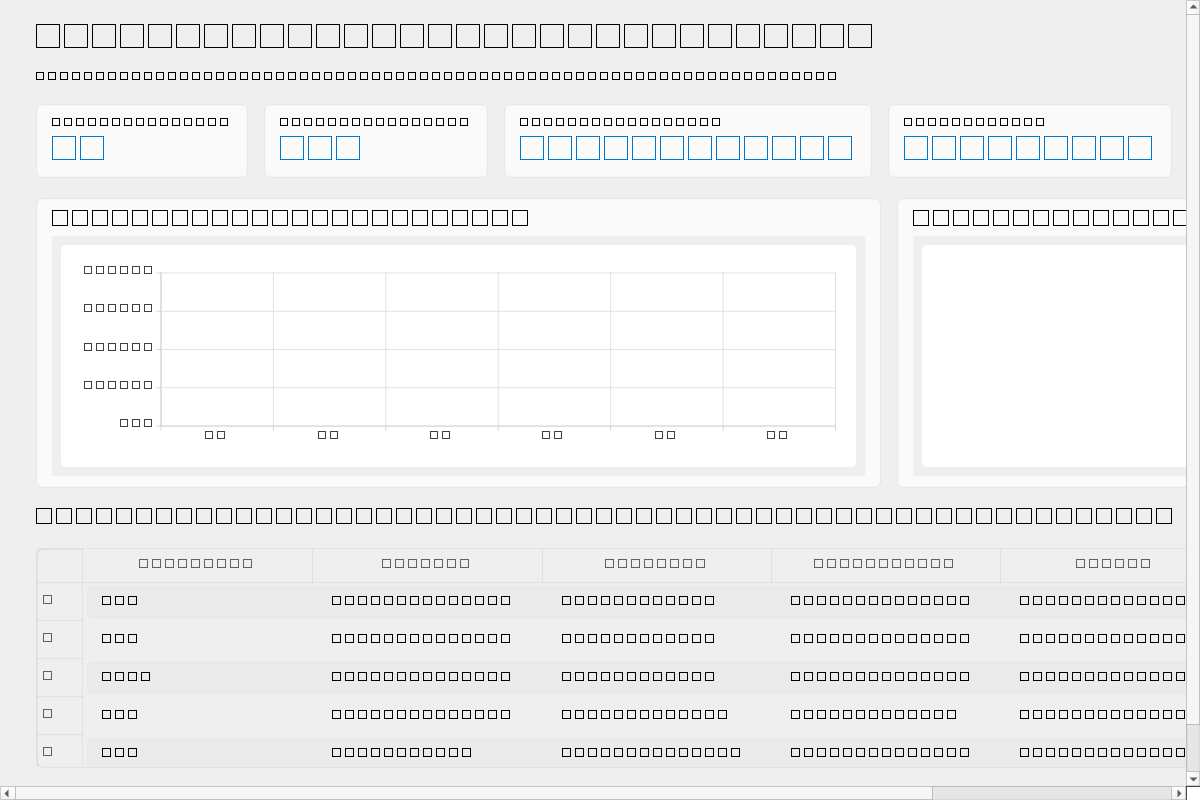
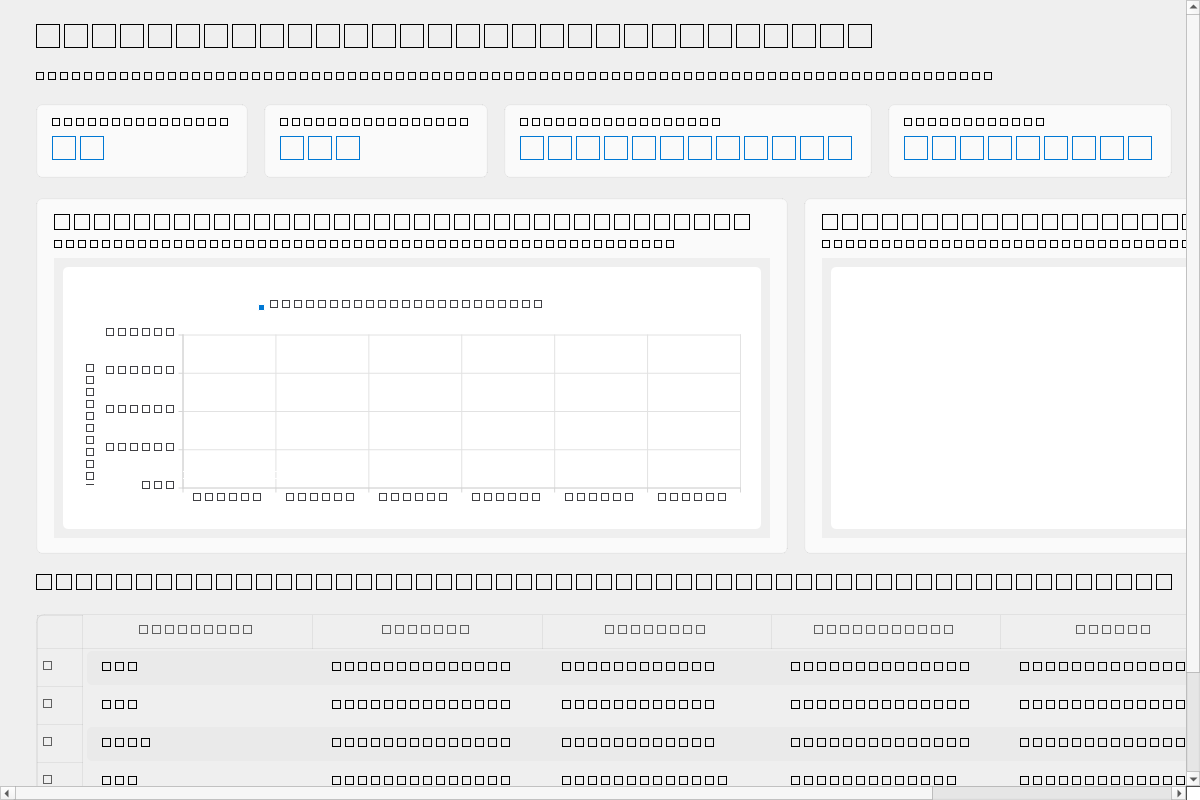
feat(ux): aprimora graficos com legendas e interatividade, valida CPF/email/tel e adiciona selecao de status em 3 opcoes

diff --git a/src/nova_dps/ui/paginas/dashboard_page.py b/src/nova_dps/ui/paginas/dashboard_page.py
@@ -1,10 +1,10 @@
 from PySide6.QtWidgets import QWidget, QVBoxLayout, QHBoxLayout, QLabel, QHeaderView, QScrollArea
-from PySide6.QtGui import QPainter
+from PySide6.QtGui import QPainter, QFont, QColor
 from PySide6.QtCore import Qt
-from PySide6.QtCharts import QChart, QChartView, QBarSeries, QBarSet, QBarCategoryAxis, QValueAxis, QPieSeries
+from PySide6.QtCharts import QChart, QChartView, QBarSeries, QBarSet, QBarCategoryAxis, QValueAxis, QPieSeries, QPieSlice
 from qfluentwidgets import (
     CardWidget, TableWidget, PrimaryPushButton, PushButton,
-    FluentIcon as FIF, TitleLabel, SubtitleLabel, CaptionLabel
+    FluentIcon as FIF, TitleLabel, SubtitleLabel, CaptionLabel, InfoBar, InfoBarPosition
 )
 from src.nova_dps.services.dashboard_service import DashboardService
 
@@ -26,7 +26,7 @@ class DashboardPage(QScrollArea):
 
         # Cabeçalho
         title = TitleLabel("Painel Executivo & Indicadores", self.container)
-        subtitle = CaptionLabel("Visão operacional e financeira em tempo real da assistência técnica", self.container)
+        subtitle = CaptionLabel("Visão operacional e financeira em tempo real com métricas e gráficos interativos", self.container)
         layout.addWidget(title)
         layout.addWidget(subtitle)
 
@@ -35,31 +35,37 @@ class DashboardPage(QScrollArea):
         self.kpis_layout.setSpacing(16)
         layout.addLayout(self.kpis_layout)
 
-        # Linha de Gráficos Nativos
+        # Linha de Gráficos Nativos e Interativos
         self.graficos_layout = QHBoxLayout()
         self.graficos_layout.setSpacing(16)
 
         # Card Gráfico de Colunas (Faturamento Mensal)
         self.card_barras = CardWidget(self.container)
         barras_vbox = QVBoxLayout(self.card_barras)
-        barras_vbox.setContentsMargins(16, 12, 16, 12)
-        lbl_barras = SubtitleLabel("Faturamento por Mês (R$)", self.card_barras)
+        barras_vbox.setContentsMargins(18, 16, 18, 16)
+        lbl_barras = SubtitleLabel("Faturamento Mensal Consolidado (R$)", self.card_barras)
+        self.lbl_barras_info = CaptionLabel("Passe o mouse ou clique nas barras para ver detalhes", self.card_barras)
         barras_vbox.addWidget(lbl_barras)
+        barras_vbox.addWidget(self.lbl_barras_info)
+        
         self.chart_view_barras = QChartView(self.card_barras)
         self.chart_view_barras.setRenderHint(QPainter.Antialiasing)
-        self.chart_view_barras.setMinimumHeight(240)
+        self.chart_view_barras.setMinimumHeight(280)
         barras_vbox.addWidget(self.chart_view_barras)
         self.graficos_layout.addWidget(self.card_barras, 3)
 
         # Card Gráfico de Rosca (Distribuição de Reparos)
         self.card_rosca = CardWidget(self.container)
         rosca_vbox = QVBoxLayout(self.card_rosca)
-        rosca_vbox.setContentsMargins(16, 12, 16, 12)
-        lbl_rosca = SubtitleLabel("Top Reparos Técnicos", self.card_rosca)
+        rosca_vbox.setContentsMargins(18, 16, 18, 16)
+        lbl_rosca = SubtitleLabel("Top Reparos Técnicos Executados", self.card_rosca)
+        self.lbl_rosca_info = CaptionLabel("Clique em uma fatia para destacar a categoria", self.card_rosca)
         rosca_vbox.addWidget(lbl_rosca)
+        rosca_vbox.addWidget(self.lbl_rosca_info)
+        
         self.chart_view_rosca = QChartView(self.card_rosca)
         self.chart_view_rosca.setRenderHint(QPainter.Antialiasing)
-        self.chart_view_rosca.setMinimumHeight(240)
+        self.chart_view_rosca.setMinimumHeight(280)
         rosca_vbox.addWidget(self.chart_view_rosca)
         self.graficos_layout.addWidget(self.card_rosca, 2)
 
@@ -98,7 +104,6 @@ class DashboardPage(QScrollArea):
 
     def exportar_pdf(self):
         from src.nova_dps.services.relatorio_service import RelatorioPdfService
-        from qfluentwidgets import InfoBar, InfoBarPosition
         import os
         caminho = RelatorioPdfService.gerar_relatorio_gerencial()
         InfoBar.success(
@@ -139,19 +144,21 @@ class DashboardPage(QScrollArea):
             c_layout.addWidget(lbl_valor)
             self.kpis_layout.addWidget(card)
 
-        # Montar Gráfico de Colunas (Faturamento)
+        # Montar Gráfico de Colunas Interativo e com Rótulos
         dados_meses = DashboardService.faturamento_por_mes()
         chart_barras = QChart()
         chart_barras.setAnimationOptions(QChart.SeriesAnimations)
-        chart_barras.legend().setVisible(False)
+        chart_barras.legend().setVisible(True)
+        chart_barras.legend().setAlignment(Qt.AlignTop)
 
-        bar_set = QBarSet("Faturamento")
-        bar_set.setColor("#0078D4")
+        bar_set = QBarSet("Faturamento Mensal (R$)")
+        bar_set.setColor(QColor("#0078D4"))
+        
         categorias = []
         max_val = 1000.0
 
         for mes, total in dados_meses:
-            categorias.append(str(mes)[5:]) # MM
+            categorias.append(f"Mês {str(mes)[5:]}") # Ex: Mês 05
             val = float(total or 0)
             bar_set.append(val)
             if val > max_val:
@@ -159,21 +166,33 @@ class DashboardPage(QScrollArea):
 
         series_bar = QBarSeries()
         series_bar.append(bar_set)
+        series_bar.setLabelsVisible(True) # EXIBE O VALOR EM CIMA DA BARRA!
+        series_bar.setLabelsPosition(QBarSeries.LabelsOutsideEnd)
+
+        # Interatividade ao passar o mouse ou clicar
+        def on_bar_hovered(status, index):
+            if status and 0 <= index < len(categorias):
+                valor = bar_set.at(index)
+                self.lbl_barras_info.setText(f"Selecionado: {categorias[index]} ➔ R$ {valor:,.2f}".replace(",", "X").replace(".", ",").replace("X", "."))
+
+        bar_set.hovered.connect(on_bar_hovered)
+
         chart_barras.addSeries(series_bar)
 
         axis_x = QBarCategoryAxis()
-        axis_x.append(categorias if categorias else ["Meses"])
+        axis_x.append(categorias if categorias else ["Mês"])
         chart_barras.addAxis(axis_x, Qt.AlignBottom)
         series_bar.attachAxis(axis_x)
 
         axis_y = QValueAxis()
-        axis_y.setRange(0, max_val * 1.15)
+        axis_y.setTitleText("Total em Reais (R$)")
+        axis_y.setRange(0, max_val * 1.25)
         chart_barras.addAxis(axis_y, Qt.AlignLeft)
         series_bar.attachAxis(axis_y)
 
         self.chart_view_barras.setChart(chart_barras)
 
-        # Montar Gráfico de Rosca (Reparos)
+        # Montar Gráfico de Rosca Interativo com Legendas Claras
         dados_reparos = DashboardService.distribuicao_tipos_reparo()
         chart_rosca = QChart()
         chart_rosca.setAnimationOptions(QChart.SeriesAnimations)
@@ -181,10 +200,26 @@ class DashboardPage(QScrollArea):
         chart_rosca.legend().setAlignment(Qt.AlignRight)
 
         pie_series = QPieSeries()
-        pie_series.setHoleSize(0.38)
+        pie_series.setHoleSize(0.40) # Rosca moderna
 
-        for reparo, qtd in dados_reparos:
-            pie_series.append(str(reparo)[:18], int(qtd))
+        cores_paleta = ["#0078D4", "#2E7D32", "#D83B01", "#8764B8", "#00B7C3"]
+        total_reparos = sum(int(qtd) for _, qtd in dados_reparos) or 1
+
+        for idx, (reparo, qtd) in enumerate(dados_reparos):
+            pct = (int(qtd) / total_reparos) * 100
+            nome_resumido = str(reparo)[:22]
+            fatia = pie_series.append(f"{nome_resumido} ({pct:.0f}%)", int(qtd))
+            fatia.setColor(QColor(cores_paleta[idx % len(cores_paleta)]))
+            fatia.setLabelVisible(False) # Mantém limpo na rosca e detalhado na legenda
+
+            # Interatividade de Destaque / Explode ao clicar
+            def make_click_handler(slice_ref, nome, q, p):
+                def handler():
+                    slice_ref.setExploded(not slice_ref.isExploded())
+                    self.lbl_rosca_info.setText(f"Destaque: {nome} ➔ {q} chamados ({p:.1f}%)")
+                return handler
+
+            fatia.clicked.connect(make_click_handler(fatia, str(reparo), int(qtd), pct))
 
         chart_rosca.addSeries(pie_series)
         self.chart_view_rosca.setChart(chart_rosca)

diff --git a/src/nova_dps/ui/paginas/clientes_page.py b/src/nova_dps/ui/paginas/clientes_page.py
@@ -68,6 +68,9 @@ class ClientesPage(QWidget):
         self.carregar_clientes()
 
     def salvar_cliente(self):
+        from src.nova_dps.services.validadores import validar_cpf, validar_telefone, validar_email
+        from qfluentwidgets import InfoBar, InfoBarPosition
+
         nome = self.txt_nome.text().strip()
         cpf = self.txt_cpf.text().strip()
         tel = self.txt_tel.text().strip()
@@ -76,8 +79,52 @@ class ClientesPage(QWidget):
         bairro = self.txt_bairro.text().strip()
         cidade = self.txt_cidade.text().strip() or "São Paulo"
         
-        if nome and tel:
-            CrudService.salvar_cliente(nome, cpf, tel, email, endereco, bairro)
+        # 1. Validação de Nome Obrigatório
+        if not nome or len(nome) < 3:
+            InfoBar.warning(
+                title="Nome Inválido",
+                content="Por favor, informe o nome completo do cliente (mínimo 3 caracteres).",
+                orient=InfoBarPosition.TOP,
+                duration=3500,
+                parent=self
+            )
+            return
+
+        # 2. Validação de Telefone Obrigatório
+        if not tel or not validar_telefone(tel):
+            InfoBar.warning(
+                title="Telefone Inválido",
+                content="Informe um telefone com DDD válido (ex: 11987654321 ou (11) 98765-4321).",
+                orient=InfoBarPosition.TOP,
+                duration=3500,
+                parent=self
+            )
+            return
+
+        # 3. Validação de CPF
+        if cpf and not validar_cpf(cpf):
+            InfoBar.warning(
+                title="CPF Inválido",
+                content="O CPF digitado não possui os dígitos verificadores válidos segundo a Receita Federal.",
+                orient=InfoBarPosition.TOP,
+                duration=3500,
+                parent=self
+            )
+            return
+
+        # 4. Validação de E-mail
+        if email and not validar_email(email):
+            InfoBar.warning(
+                title="E-mail Inválido",
+                content="O formato do e-mail é inválido (exemplo correto: cliente@email.com).",
+                orient=InfoBarPosition.TOP,
+                duration=3500,
+                parent=self
+            )
+            return
+
+        try:
+            CrudService.salvar_cliente(nome, cpf, tel, email, endereco, bairro, cidade)
             self.txt_nome.clear()
             self.txt_cpf.clear()
             self.txt_tel.clear()
@@ -86,6 +133,21 @@ class ClientesPage(QWidget):
             self.txt_bairro.clear()
             self.txt_cidade.clear()
             self.carregar_clientes()
+            InfoBar.success(
+                title="Cliente Cadastrado com Sucesso!",
+                content=f"{nome} foi cadastrado com dados e localização validados.",
+                orient=InfoBarPosition.TOP,
+                duration=3000,
+                parent=self
+            )
+        except Exception as e:
+            InfoBar.error(
+                title="Erro ao Cadastrar Cliente",
+                content=str(e),
+                orient=InfoBarPosition.TOP,
+                duration=4000,
+                parent=self
+            )
 
     def carregar_clientes(self):
         clientes = CrudService.listar_clientes()

diff --git a/src/nova_dps/ui/paginas/servicos_page.py b/src/nova_dps/ui/paginas/servicos_page.py
@@ -1,5 +1,5 @@
 from PySide6.QtWidgets import QWidget, QVBoxLayout, QHeaderView, QTableWidgetItem
-from qfluentwidgets import TableWidget, TitleLabel, CaptionLabel
+from qfluentwidgets import TableWidget, TitleLabel, CaptionLabel, ComboBox, InfoBar, InfoBarPosition
 from src.nova_dps.services.crud_service import CrudService
 
 class ServicosPage(QWidget):
@@ -38,4 +38,30 @@ class ServicosPage(QWidget):
             self.tabela.setItem(row_idx, 3, QTableWidgetItem(str(s['tecnico_responsavel'])))
             self.tabela.setItem(row_idx, 4, QTableWidgetItem(str(s['tipo_reparo'])))
             self.tabela.setItem(row_idx, 5, QTableWidgetItem(f"R$ {float(s['valor_mao_de_obra']):,.2f}"))
-            self.tabela.setItem(row_idx, 6, QTableWidgetItem(str(s['status_servico'])))
+            
+            # ComboBox Interativo com 3 opções
+            cb_status = ComboBox(self)
+            cb_status.addItems(["Pendente", "Em Andamento", "Finalizado"])
+            
+            st_banco = str(s['status_servico'])
+            if st_banco in ["Finalizado", "Concluído"]:
+                cb_status.setCurrentText("Finalizado")
+            elif st_banco in ["Em Andamento"]:
+                cb_status.setCurrentText("Em Andamento")
+            else:
+                cb_status.setCurrentText("Pendente")
+
+            cb_status.currentTextChanged.connect(
+                lambda novo_st, id_s=s['id_servico']: self.on_status_changed(id_s, novo_st)
+            )
+            self.tabela.setCellWidget(row_idx, 6, cb_status)
+
+    def on_status_changed(self, id_servico, novo_status):
+        CrudService.atualizar_status_servico(id_servico, novo_status)
+        InfoBar.success(
+            title="Status de Serviço Atualizado",
+            content=f"Serviço #{id_servico} alterado para: {novo_status}",
+            orient=InfoBarPosition.TOP,
+            duration=2000,
+            parent=self
+        )

diff --git a/src/nova_dps/ui/paginas/pedidos_page.py b/src/nova_dps/ui/paginas/pedidos_page.py
@@ -96,5 +96,34 @@ class PedidosPage(QWidget):
             self.tabela.setItem(row_idx, 1, QTableWidgetItem(str(p['cliente'])))
             self.tabela.setItem(row_idx, 2, QTableWidgetItem(str(p['tipo_equipamento'])))
             self.tabela.setItem(row_idx, 3, QTableWidgetItem(str(p['modelo_equipamento'])))
-            self.tabela.setItem(row_idx, 4, QTableWidgetItem(str(p['status_pedido'])))
+            
+            # ComboBox Interativo com as 3 opções solicitadas
+            cb_status = ComboBox(self)
+            cb_status.addItems(["Pendente", "Em Andamento", "Finalizado"])
+            
+            status_banco = str(p['status_pedido'])
+            # Normalizar status para as 3 opções
+            if status_banco in ["Concluído", "Entregue", "Finalizado"]:
+                cb_status.setCurrentText("Finalizado")
+            elif status_banco in ["Em Andamento", "Em Manutenção", "Em Análise"]:
+                cb_status.setCurrentText("Em Andamento")
+            else:
+                cb_status.setCurrentText("Pendente")
+
+            # Conectar alteração imediata no banco
+            cb_status.currentTextChanged.connect(
+                lambda novo_st, id_p=p['id_pedido']: self.on_status_changed(id_p, novo_st)
+            )
+            self.tabela.setCellWidget(row_idx, 4, cb_status)
+
             self.tabela.setItem(row_idx, 5, QTableWidgetItem(str(p['data_abertura'])[:16]))
+
+    def on_status_changed(self, id_pedido, novo_status):
+        CrudService.atualizar_status_pedido(id_pedido, novo_status)
+        InfoBar.success(
+            title="Status Atualizado",
+            content=f"OS #{id_pedido} atualizada para: {novo_status}",
+            orient=InfoBarPosition.TOP,
+            duration=2000,
+            parent=self
+        )

diff --git a/src/nova_dps/services/validadores.py b/src/nova_dps/services/validadores.py
@@ -1,0 +1,31 @@
+import re
+
+def validar_cpf(cpf: str) -> bool:
+    """Valida o algoritmo oficial do CPF brasileiro."""
+    numeros = [int(digito) for digito in re.sub(r'\D', '', cpf)]
+    if len(numeros) != 11:
+        return False
+    # Verifica se todos os dígitos são iguais (ex: 111.111.111-11)
+    if len(set(numeros)) == 1:
+        return False
+    # Primeiro dígito verificador
+    soma = sum(a * b for a, b in zip(numeros[:9], range(10, 1, -1)))
+    digito_1 = (soma * 10 % 11) % 10
+    if digito_1 != numeros[9]:
+        return False
+    # Segundo dígito verificador
+    soma = sum(a * b for a, b in zip(numeros[:10], range(11, 1, -1)))
+    digito_2 = (soma * 10 % 11) % 10
+    return digito_2 == numeros[10]
+
+def validar_telefone(telefone: str) -> bool:
+    """Valida telefone/celular com DDD (10 ou 11 dígitos numéricos)."""
+    digitos = re.sub(r'\D', '', telefone)
+    return len(digitos) in (10, 11)
+
+def validar_email(email: str) -> bool:
+    """Valida formato de e-mail padrão."""
+    if not email:
+        return True # Campo opcional
+    padrao = r'^[a-zA-Z0-9_.+-]+@[a-zA-Z0-9-]+\.[a-zA-Z0-9-.]+$'
+    return bool(re.match(padrao, email.strip()))

diff --git a/src/nova_dps/services/crud_service.py b/src/nova_dps/services/crud_service.py
@@ -26,6 +26,11 @@ class CrudService:
             conn.execute(text("UPDATE pedido SET status_pedido = :st WHERE id_pedido = :id"), {"st": novo_status, "id": id_pedido})
 
     @staticmethod
+    def atualizar_status_servico(id_servico, novo_status):
+        with engine.begin() as conn:
+            conn.execute(text("UPDATE servico SET status_servico = :st WHERE id_servico = :id"), {"st": novo_status, "id": id_servico})
+
+    @staticmethod
     def listar_pedidos():
         with engine.connect() as conn:
             return conn.execute(text("""
